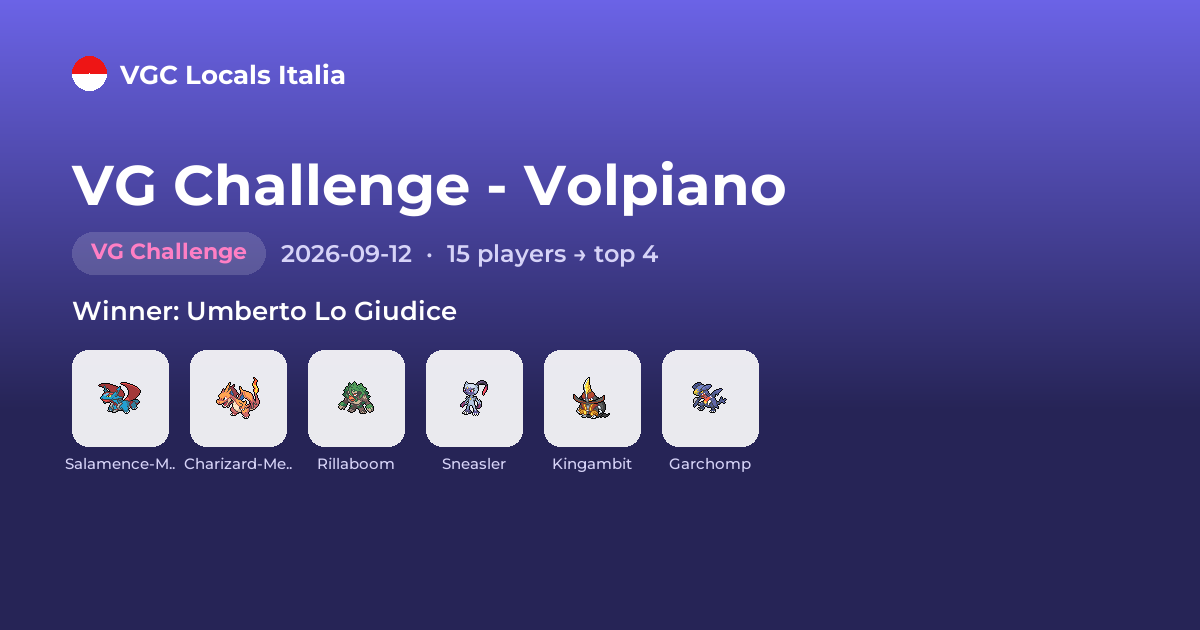
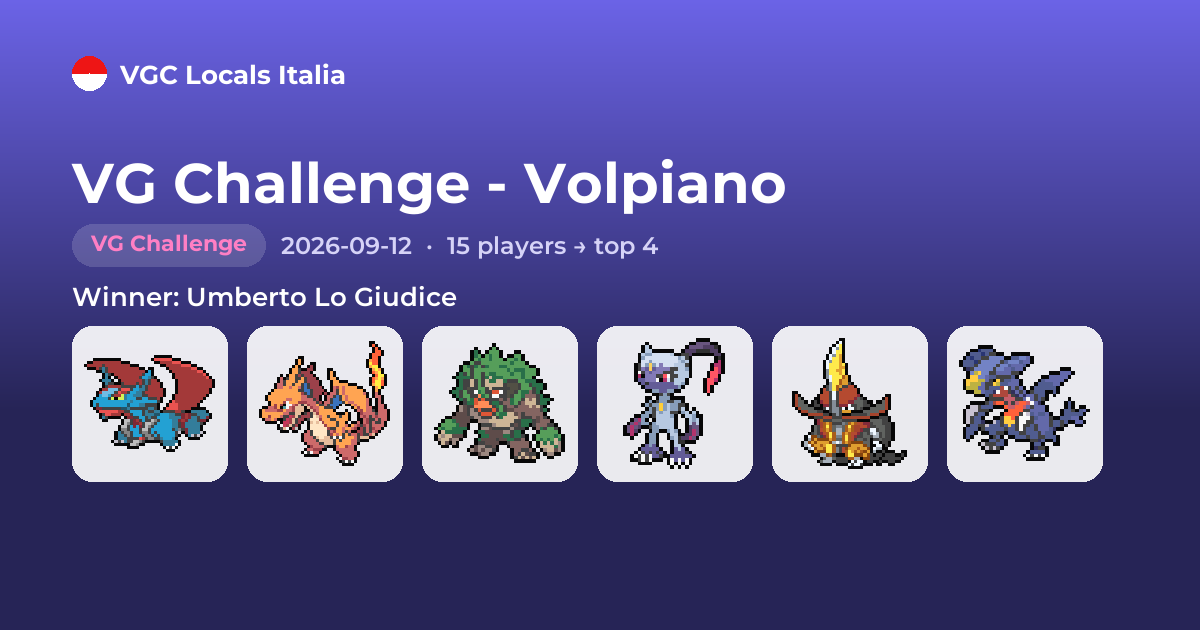
Bigger, crisper OG sprites without labels; 1x6 winner row on mobile
Social-preview image: sprites were tiny even at a bigger chip size because
the source images are only ~64-96px natively and thumbnail() never
upscales - now explicitly resized up with NEAREST resampling to keep the
pixel art crisp (matches style.css's image-rendering: pixelated for the
same sprites). Dropped the per-sprite name labels, freeing room for chips
to grow from 96px to 155px.

Tournament list, mobile: the winner's team now lays out as a single row of
6 smaller boxes instead of the 3x2 grid from the previous pass.

diff --git a/vgc-locals-italia/style.css b/vgc-locals-italia/style.css
@@ -536,10 +536,10 @@ input.invalid, select.invalid { border-color: var(--err); }
   .tournament-card-winner { flex-direction: column; align-items: flex-start; gap: 6px; }
   .tournament-card-winner .sprite-row {
     display: grid;
-    grid-template-columns: repeat(3, 1fr);
-    gap: 6px;
+    grid-template-columns: repeat(6, 1fr);
+    gap: 4px;
     width: 100%;
-    max-width: 200px;
   }
-  .tournament-card-winner .sprite-chip { width: 100%; height: auto; aspect-ratio: 1; }
+  .tournament-card-winner .sprite-chip { width: 100%; height: auto; aspect-ratio: 1; border-radius: 5px; }
+  .tournament-card-winner .sprite { width: 80%; height: 80%; }
 }

diff --git a/vgc-locals-italia/tool/og_image.py b/vgc-locals-italia/tool/og_image.py
@@ -121,27 +121,27 @@ def render_og_image(tournament, output_path):
     title_font = _font("Bold", 56)
     max_title_width = CANVAS_W - MARGIN * 2
     lines = _wrap_title(draw, tournament["name"], title_font, max_title_width)
-    y = 150
+    y = 148
     for line in lines:
         draw.text((MARGIN, y), line, font=title_font, fill=WHITE)
-        y += 68
+        y += 66
 
     # Badge + meta line
     badge_font = _font("Bold", 22)
     is_cup = tournament["tournament_type"] == "VG Cup"
     badge_color = CUP_COLOR if is_cup else CHALLENGE_COLOR
     badge_bg = (255, 255, 255, 40)
-    pill_w = _draw_pill(draw, (MARGIN, y + 14), tournament["tournament_type"], badge_font, badge_color, badge_bg)
+    pill_w = _draw_pill(draw, (MARGIN, y + 10), tournament["tournament_type"], badge_font, badge_color, badge_bg)
 
     meta_font = _font("SemiBold", 24)
     meta_text = f"{tournament['date']}  ·  {tournament['number_of_players']} players → top {tournament['top_cut_size']}"
-    draw.text((MARGIN + pill_w + 16, y + 20), meta_text, font=meta_font, fill=MUTED)
+    draw.text((MARGIN + pill_w + 16, y + 16), meta_text, font=meta_font, fill=MUTED)
 
     # Winner + team
     winner = tournament.get("winner")
     if winner:
         winner_font = _font("SemiBold", 26)
-        winner_y = y + 76
+        winner_y = y + 66
         draw.text(
             (MARGIN, winner_y),
             f"Winner: {winner.get('player_name') or 'Anonymous'}",
@@ -149,49 +149,38 @@ def render_og_image(tournament, output_path):
             fill=WHITE,
         )
 
-        chip_y = winner_y + 56
-        chip_size = 96
-        gap = 22
+        # No species-name labels under the chips (by request) - just big,
+        # clean sprites. That frees up the space labels + their gap used to
+        # need, so the chips can be noticeably bigger than a labeled row
+        # could afford.
+        chip_y = winner_y + 46
+        chip_size = 155
+        gap = 20
         slot = chip_size + gap
         team = winner.get("team") or []
         chip_x = MARGIN
 
-        name_font = _font("Medium", 15)
-        # Available width for a label is its own chip's width plus half the
-        # gap on each side (labels can lean into the gap without touching
-        # the neighboring chip's label, which is centered the same way).
-        label_max_w = chip_size + gap - 6
         for mon in team[:6]:
             draw.rounded_rectangle(
                 [chip_x, chip_y, chip_x + chip_size, chip_y + chip_size],
-                radius=16,
+                radius=20,
                 fill=(255, 255, 255, 230),
             )
             sprite = _fetch_sprite(mon["species_id"])
             if sprite:
-                inner = chip_size - 16
-                thumb = sprite.copy()
-                thumb.thumbnail((inner, inner))
+                inner = chip_size - 24
+                # Source sprites are small (~64-96px natively) - thumbnail()
+                # only ever shrinks, so it left them looking tiny inside the
+                # bigger chip. Scale up explicitly instead, preserving
+                # aspect ratio; NEAREST keeps the pixel-art crisp rather
+                # than blurring it (matches style.css's own
+                # image-rendering: pixelated for these same sprites).
+                scale = min(inner / sprite.width, inner / sprite.height)
+                new_w, new_h = max(1, round(sprite.width * scale)), max(1, round(sprite.height * scale))
+                thumb = sprite.resize((new_w, new_h), Image.NEAREST)
                 px = chip_x + (chip_size - thumb.width) // 2
                 py = chip_y + (chip_size - thumb.height) // 2
                 img.paste(thumb, (px, py), thumb)
-
-            label = mon["species_name"]
-            bbox = draw.textbbox((0, 0), label, font=name_font)
-            while bbox[2] - bbox[0] > label_max_w and len(label) > 1:
-                label = label[:-1]
-                trial = label.rstrip("-") + ".."
-                bbox = draw.textbbox((0, 0), trial, font=name_font)
-            if label != mon["species_name"]:
-                label = label.rstrip("-") + ".."
-                bbox = draw.textbbox((0, 0), label, font=name_font)
-            label_w = bbox[2] - bbox[0]
-            draw.text(
-                (chip_x + chip_size / 2 - label_w / 2 - bbox[0], chip_y + chip_size + 8),
-                label,
-                font=name_font,
-                fill=MUTED,
-            )
             chip_x += slot
 
     output_path.parent.mkdir(parents=True, exist_ok=True)
